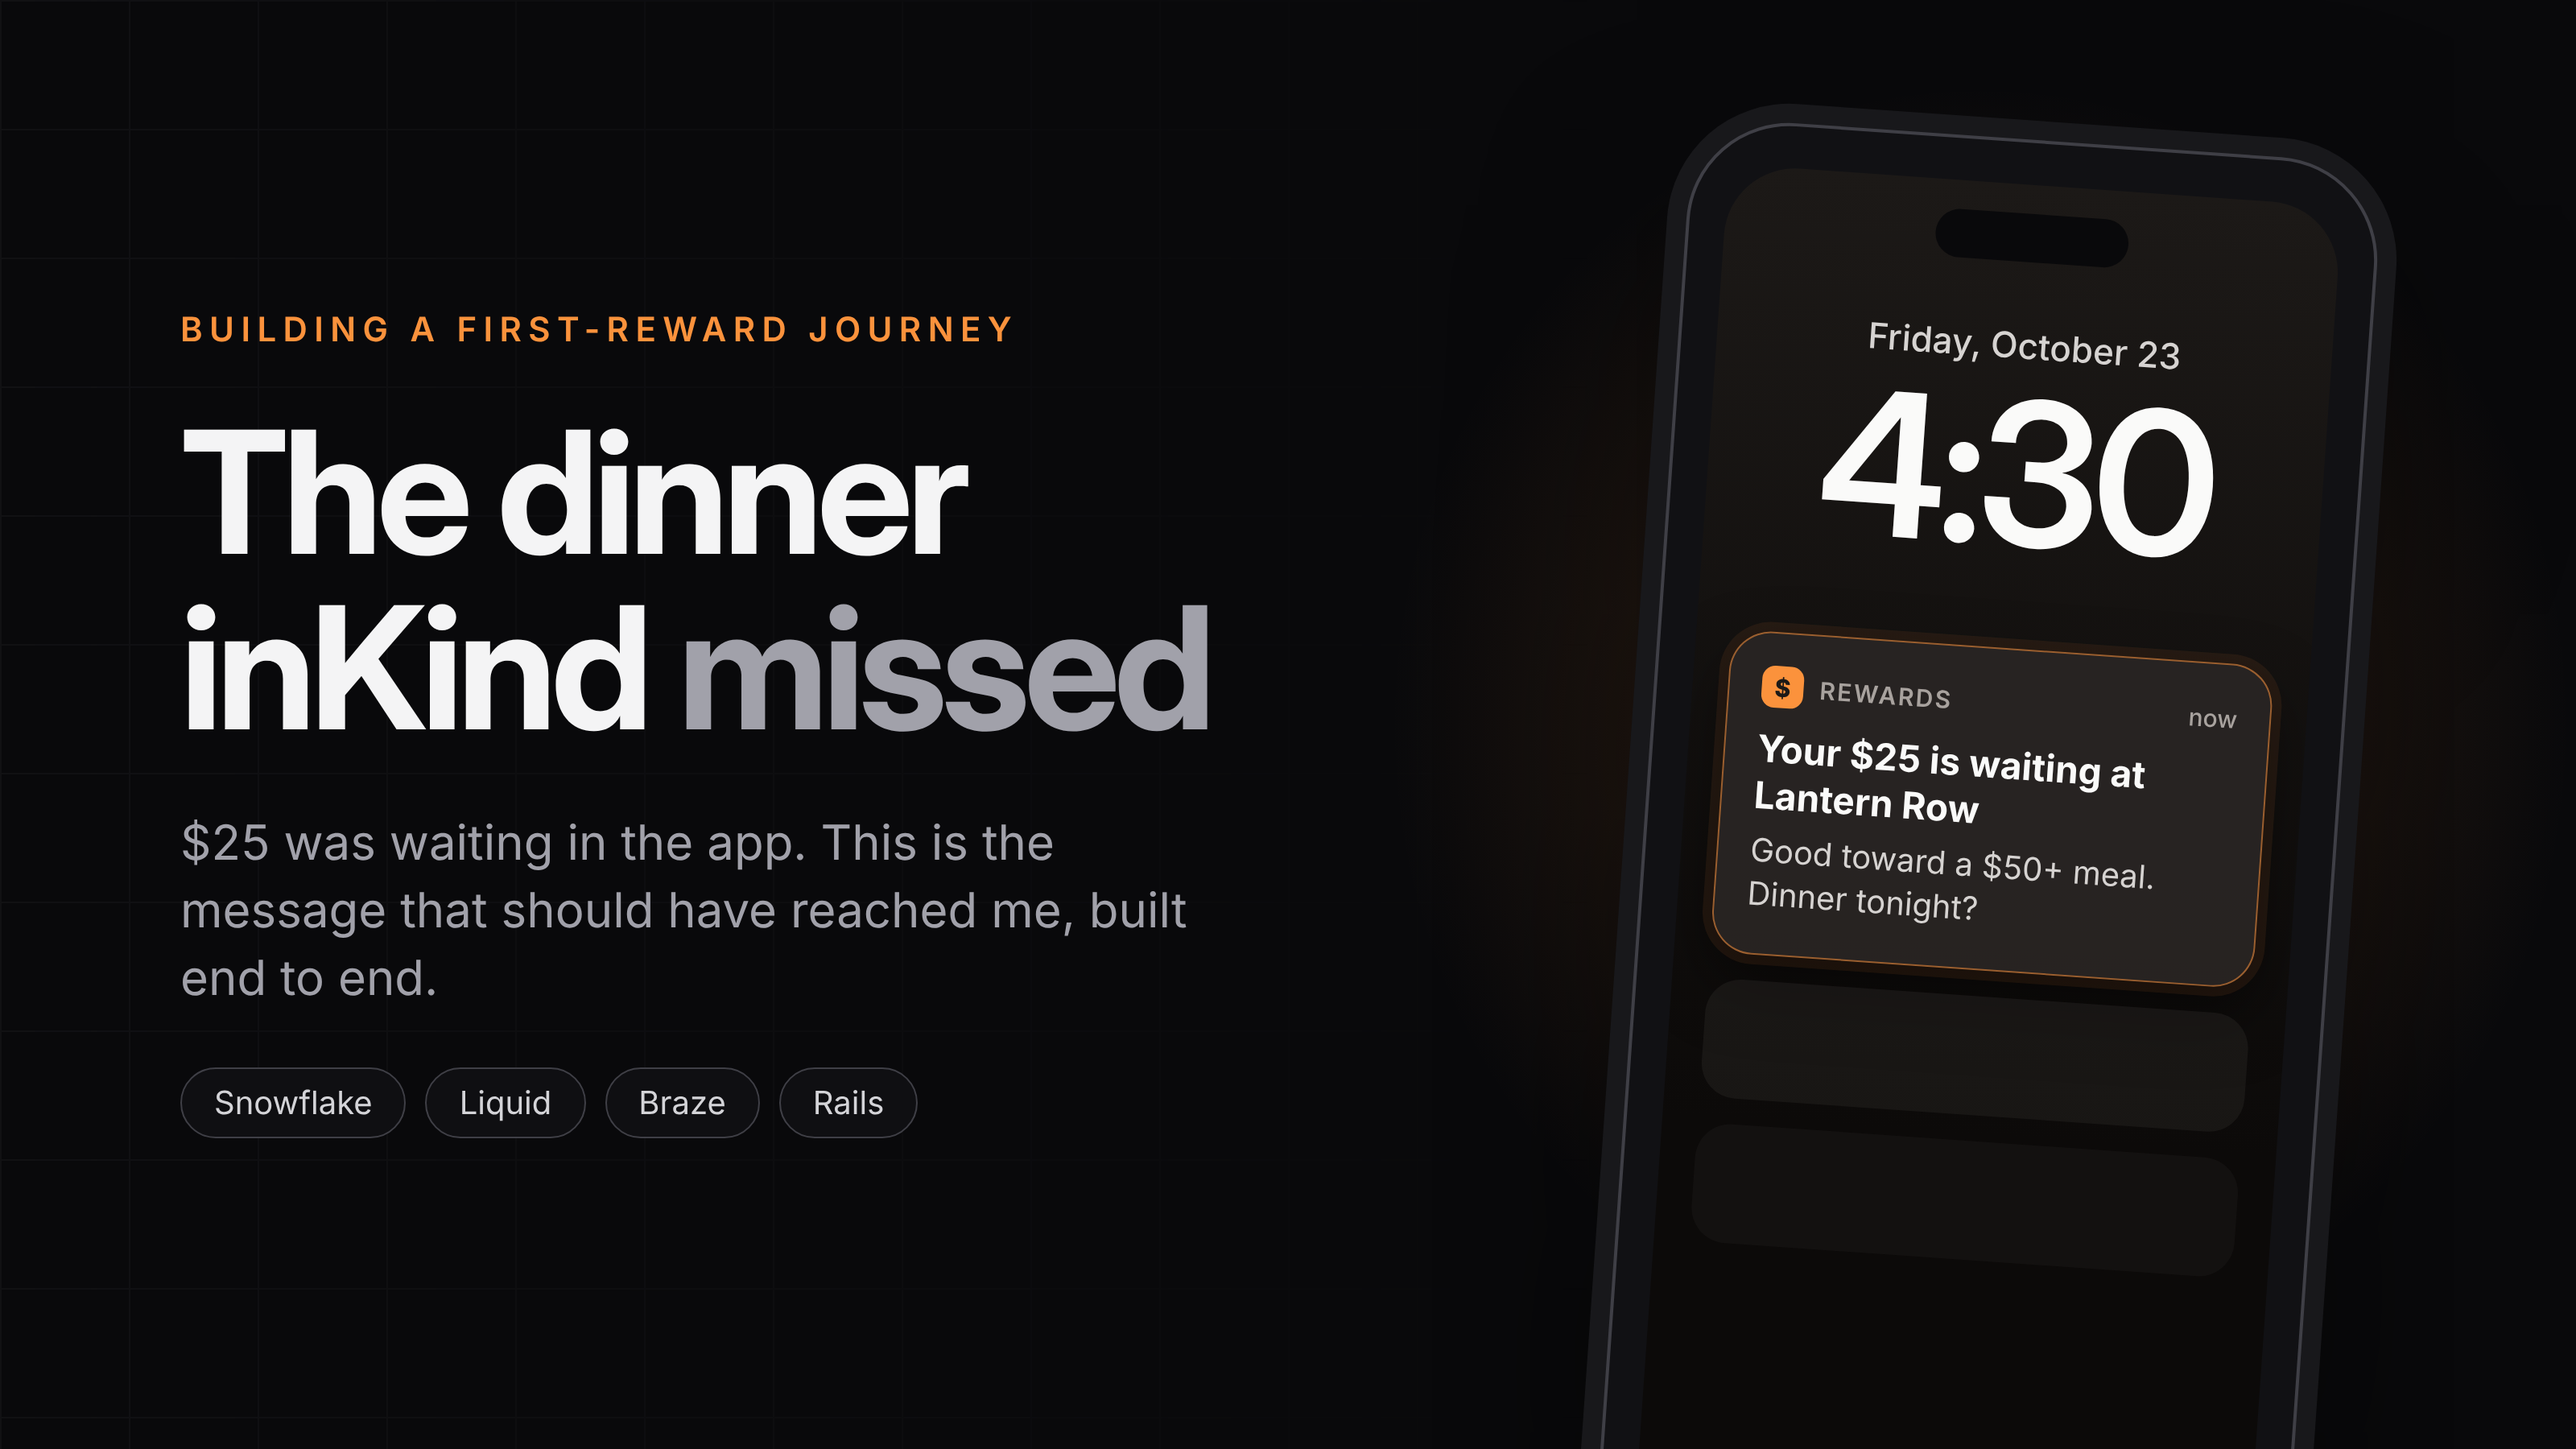
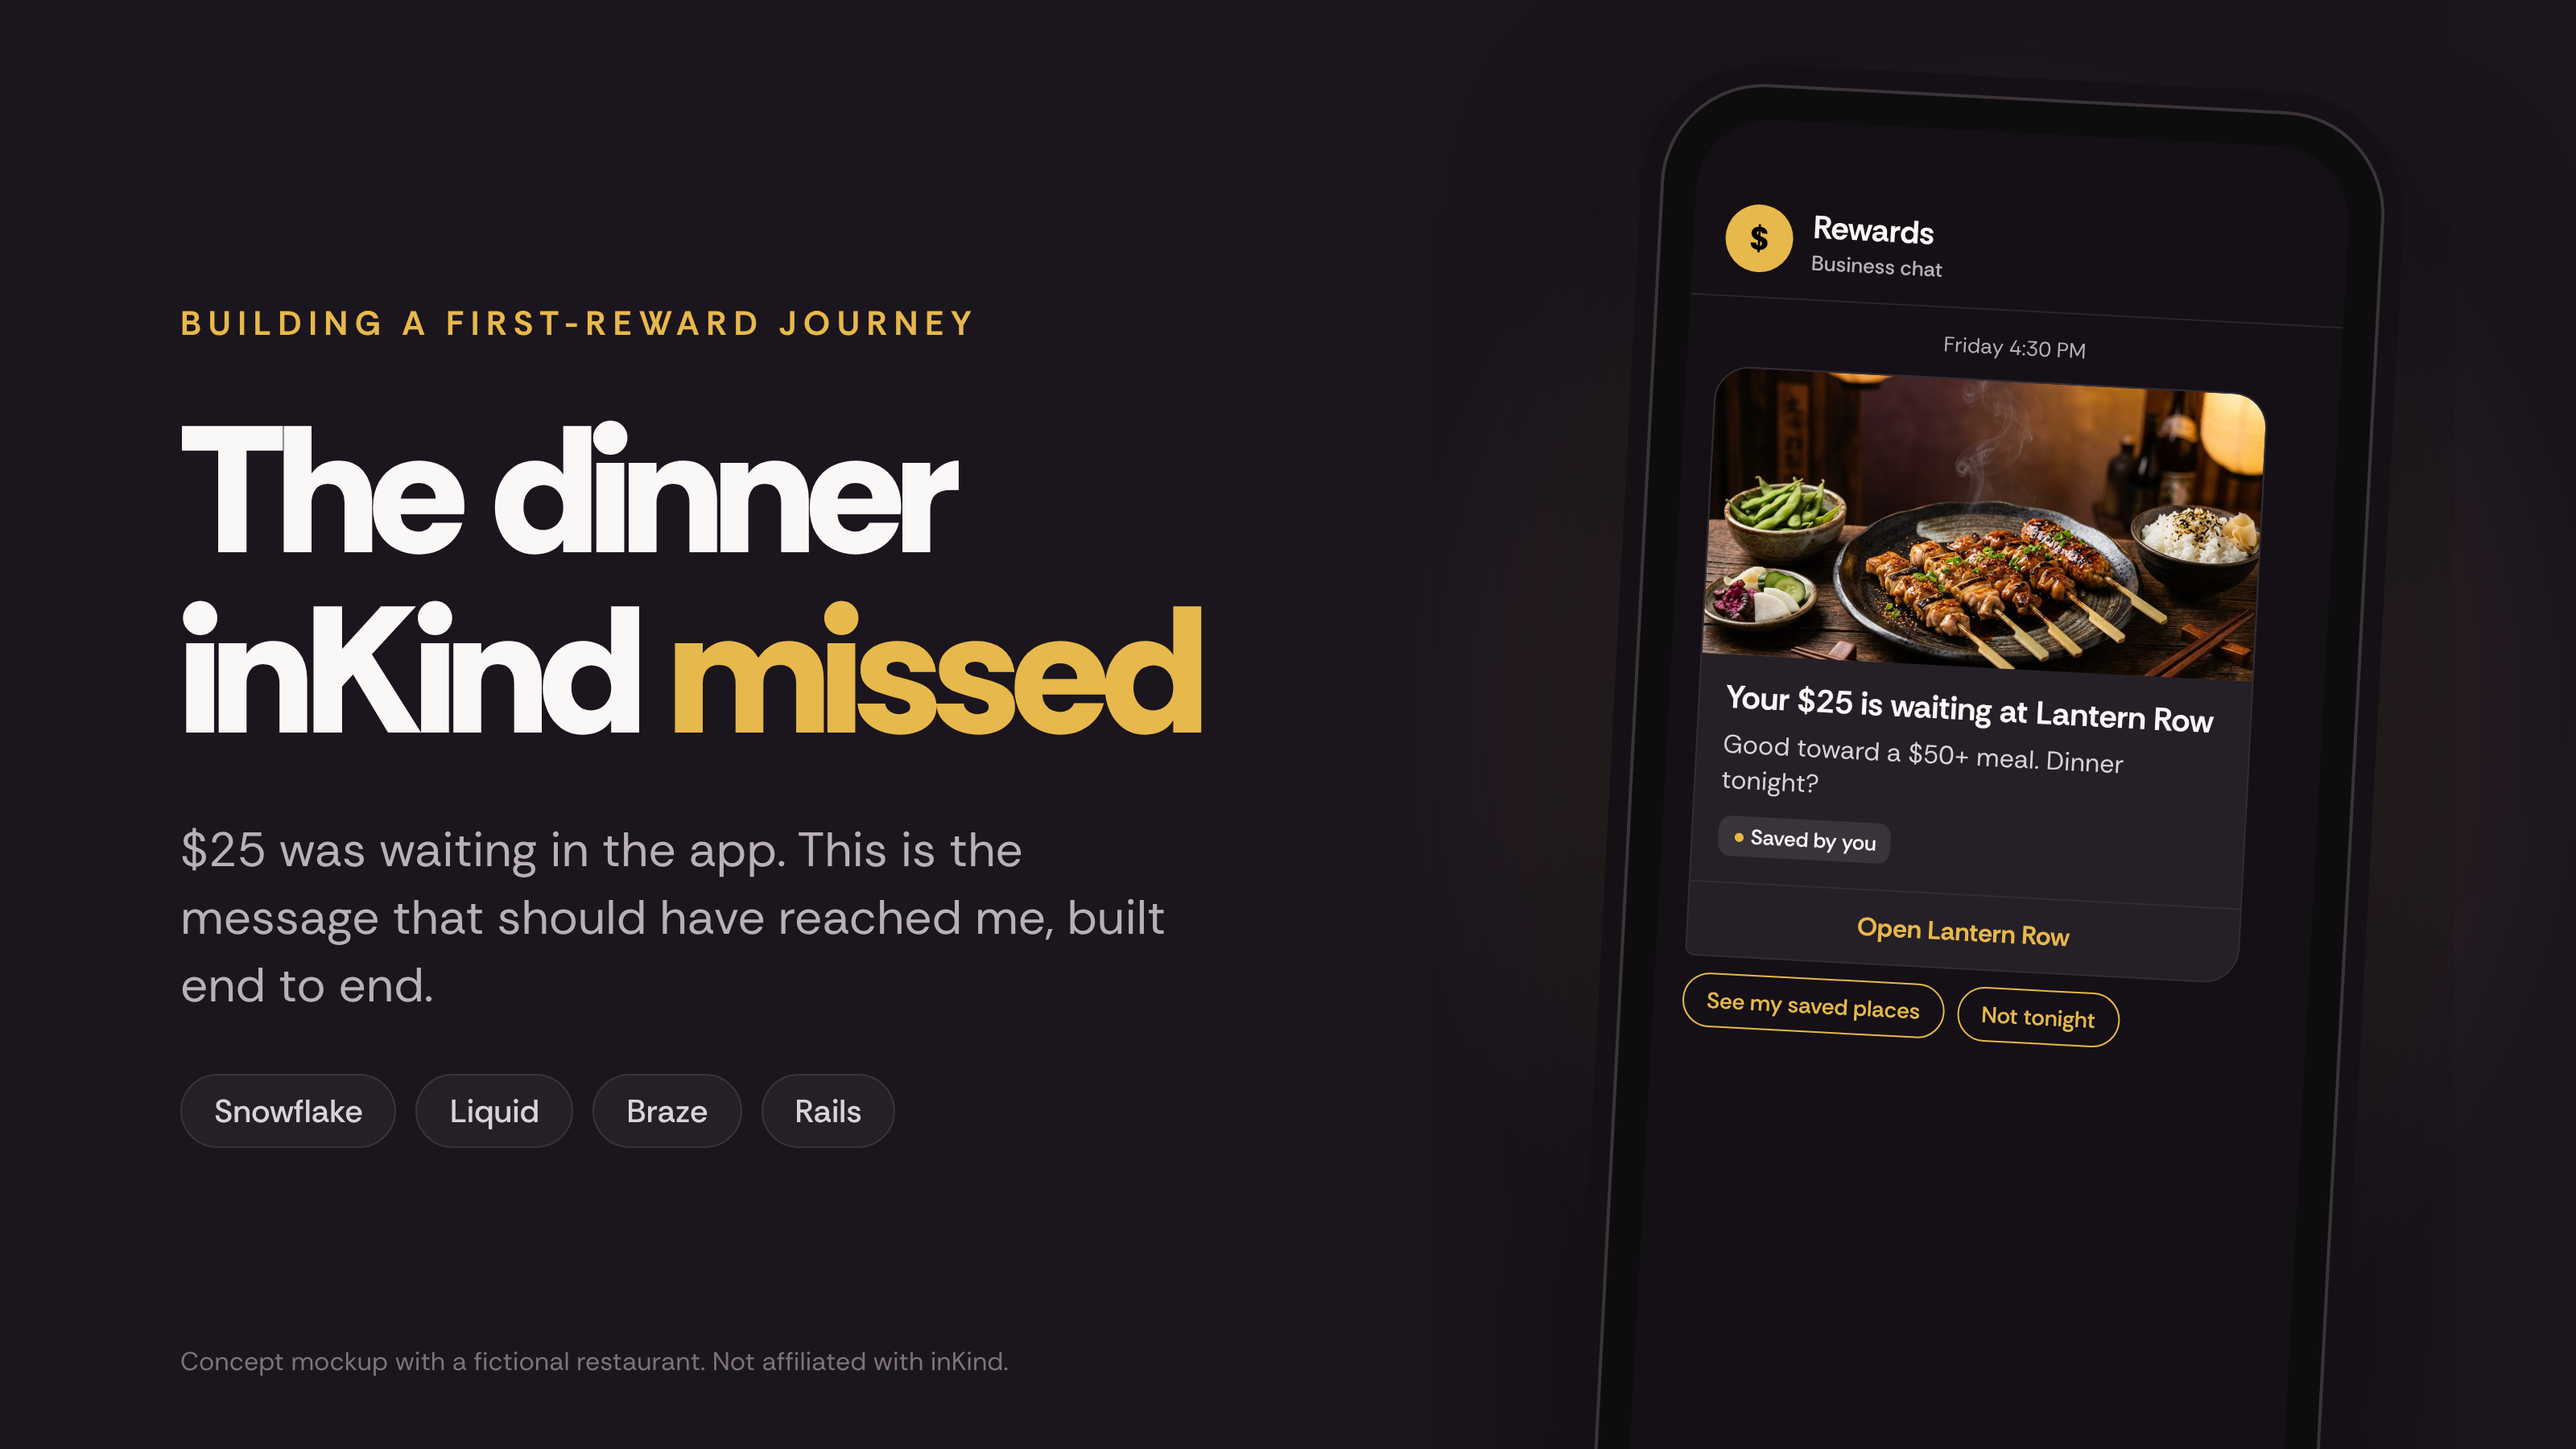
feat(blog): restyle the hero as a rich message in the repo's design tokens
Uses the Liquid library's colors and typeface and the sample restaurant
photo, with a caption marking it as a concept mockup.

diff --git a/scripts/seed-inkind-first-reward-post.ts b/scripts/seed-inkind-first-reward-post.ts
@@ -500,7 +500,7 @@ async function main() {
         mainImage: {
             _type: "image",
             asset: hero,
-            alt: "A phone lock screen at 4:30 on a Friday showing a push notification: Your $25 is waiting at Lantern Row. Beside it, the title The dinner inKind missed.",
+            alt: "A phone showing a rich message sent Friday at 4:30 PM, with a photo of a fictional restaurant and the text: Your $25 is waiting at Lantern Row. Beside it, the title The dinner inKind missed.",
         },
         seo: {
             _type: "seo",
